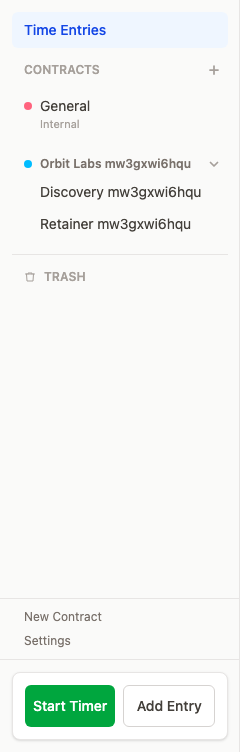
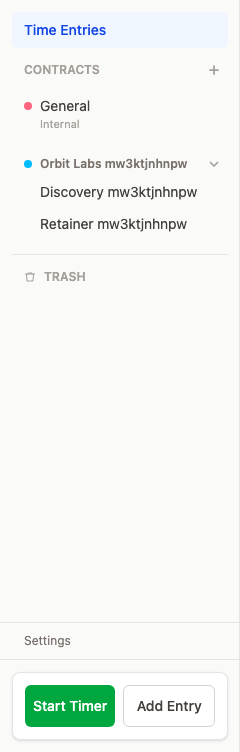
Remove footer New Contract link; compact 32px card buttons on touch

Changed region(s): [[0.525, 0.2141, 0.8458, 0.3059], [0.0875, 0.7952, 0.4375, 0.8258]]

diff --git a/src/lib/components/weekly/TimeEntryCard.svelte b/src/lib/components/weekly/TimeEntryCard.svelte
@@ -360,7 +360,7 @@
 	tabindex="-1"
 	role="group"
 	aria-label="{splitDescription.body || 'Time entry'}, {contractLabel}, {durationDisplay}"
-	class="group relative mb-2 flex rounded-lg pointer-coarse:min-h-[92px] border border-stone-200 border-l-[3px] bg-white p-3 transition-colors hover:bg-stone-50/50 focus-visible:ring-2 focus-visible:ring-blue-400 focus-visible:outline-none {clientBorderClass}"
+	class="group relative mb-2 flex rounded-lg border border-stone-200 border-l-[3px] bg-white p-3 transition-colors hover:bg-stone-50/50 focus-visible:ring-2 focus-visible:ring-blue-400 focus-visible:outline-none {clientBorderClass}"
 	data-testid="time-entry-card"
 	data-entry-id={entry.id}
 >
@@ -388,7 +388,7 @@
 		{:else}
 			<button
 				onclick={() => (isConfirmingDelete = true)}
-				class="flex h-6 w-6 items-center justify-center rounded text-stone-400 opacity-0 transition-opacity group-focus-within:opacity-100 group-hover:opacity-100 hover:bg-red-50 hover:text-red-600 focus-visible:opacity-100 pointer-coarse:h-11 pointer-coarse:w-11 pointer-coarse:opacity-100"
+				class="flex h-6 w-6 items-center justify-center rounded text-stone-400 opacity-0 transition-opacity group-focus-within:opacity-100 group-hover:opacity-100 hover:bg-red-50 hover:text-red-600 focus-visible:opacity-100 pointer-coarse:h-8 pointer-coarse:w-8 pointer-coarse:opacity-100"
 				title="Delete entry"
 				aria-label="Delete entry"
 			>&times;</button>

diff --git a/e2e-playwright/iphone-journeys.spec.ts b/e2e-playwright/iphone-journeys.spec.ts
@@ -74,9 +74,11 @@ test('sign in, then the week: add, edit and delete an entry @iphone', async ({ p
 	const editedCard = page.getByTestId('time-entry-card').filter({ hasText: 'Phone entry edited' });
 	await expect(editedCard).toBeVisible();
 
-	// Delete: the × is always shown on touch and is finger-sized, and so are Yes / No
+	// Delete: the × is always shown on touch at a compact 32px (owner: tight is fine); Yes / No are finger-sized
 	const deleteButton = editedCard.getByRole('button', { name: 'Delete entry' });
-	await expectTouchSized(deleteButton);
+	const deleteBox = await deleteButton.boundingBox();
+	expect(deleteBox!.width).toBeGreaterThanOrEqual(32);
+	expect(deleteBox!.height).toBeGreaterThanOrEqual(32);
 	await deleteButton.click();
 	const confirmYes = editedCard.getByRole('button', { name: 'Yes' });
 	await expectTouchSized(confirmYes);

diff --git a/src/lib/components/weekly/AttachNoteButton.svelte b/src/lib/components/weekly/AttachNoteButton.svelte
@@ -42,7 +42,7 @@
 	class="flex h-6 w-6 items-center justify-center rounded text-stone-400 transition-opacity
 		hover:bg-blue-50 hover:text-blue-600 focus-visible:opacity-100
 		aria-disabled:cursor-not-allowed aria-disabled:hover:bg-transparent aria-disabled:hover:text-stone-400
-		pointer-coarse:h-11 pointer-coarse:w-11 pointer-coarse:opacity-100
+		pointer-coarse:h-8 pointer-coarse:w-8 pointer-coarse:opacity-100
 		{isAttaching ? 'opacity-100' : 'opacity-0 group-hover:opacity-100 group-focus-within:opacity-100'}
 		{blockedReason ? 'text-stone-300' : ''}"
 >

diff --git a/src/lib/components/layout/ContractsSidebar.svelte b/src/lib/components/layout/ContractsSidebar.svelte
@@ -214,12 +214,6 @@
 
 	<!-- Action buttons just above the timer -->
 	<div class="flex-shrink-0 border-t border-stone-200 px-3 py-1.5">
-		<button
-			onclick={() => (showCreateModal = true)}
-			class="block w-full px-3 py-1 text-left text-xs text-stone-500 hover:text-stone-700 pointer-coarse:py-3.5"
-		>
-			New Contract
-		</button>
 		<a
 			href="/settings"
 			class="block w-full px-3 py-1 text-left text-xs text-stone-500 hover:text-stone-700 pointer-coarse:py-3.5"

diff --git a/docs/backlog.md b/docs/backlog.md
@@ -32,7 +32,7 @@ The live backlog, rewritten 2026-11-03 after sprints 019 to 028. Sprint history 
 - **046-CL** Search results as one interleaved list with type icons; one-line meta on phones.
 - **043-CL** Trash view `/notes/trash`, link text in previews and titles, deleted-attachment styling, `NoteEditorPanel` split, reactive toolbar disabled states, phone Undo/linked entries/landscape.
 - **044-CL** Playwright 2FA login test, version drift notice (`serverCommit` on `/api/me`), desktop sign-out clears the tray timer, distinct client colours, root navigation context, `undo --last-import` trashes imported notes, 0 svelte-check warnings, skill split into SKILL.md + reference.md, deterministic WebKit tests, screenshots only with `UPDATE_SPRINT_SCREENSHOTS=1`. CLI 1.3.0.
-- **049-UI** Attach note on a time entry (new note on the entry's contract, `[[ID]]` appended to the description, note opens focused; offline via the outbox), `+` New contract beside the Contracts heading, client chevrons right-aligned under it. Follow-ups: the footer "New Contract" link is now a duplicate (remove?); API e2e `note-changes-cli` "note new --date yesterday" expects a 3-digit note number and fails once the dev DB passes 999 notes a day.
+- **049-UI** Attach note on a time entry (new note on the entry's contract, `[[ID]]` appended to the description, note opens focused; offline via the outbox), `+` New contract beside the Contracts heading, client chevrons right-aligned under it. Footer "New Contract" link removed and card buttons tightened to 32 px on touch (owner, 2026-11-05). Follow-up: API e2e `note-changes-cli` "note new --date yesterday" expects a 3-digit note number and fails once the dev DB passes 999 notes a day.
 - **048-DT** Tauri iOS shell (`dev.thisolivier.chronolog`, loads production, portrait on iPhone), `scripts/ios/ship-ios.sh` TestFlight lane and `testflight-setup` skill from timeConvertor, `docs/IOS-RELEASE.md`, simulator UI-test driver in `scripts/ios/ui-check/`. Proven in the simulator up to the missing provisioning profile.
 - **047-QA** iPhone UI pass (SE, 15, 15 Pro Max, WebKit): 16 px inputs, `dvh` + safe areas, 44 pt touch targets, Move menu and wiki-link list on screen, stacked Settings rows, phone Find button. Deferred: touch path to reorder clients, crowded title bar while a timer runs, small contract arrows, raw `[[ID]]` when editing an entry, sideways-scrolling note toolbar has no visible hint (`docs/review/2026-11-04-iphone-ui.md`).
 - **045-CL** Offline outbox: per-user IndexedDB read cache, service worker for offline reload (not in Tauri), localStorage outbox with per-field conflict hold, `clientRequestId` idempotent creates (migration 0011), account-safe replay. Not queued offline: note move/pin/trash, attachments, week status, stopping a server timer.

diff --git a/src/lib/components/layout/README.md b/src/lib/components/layout/README.md
@@ -58,7 +58,7 @@ Offline banner, rendered by AppShell and by `SettingsShell`. It reads `src/lib/s
 
 ### ContractsSidebar.svelte
 
-Panel 1 sidebar content. Shows Time Entries, the contracts (a `+` right of the "Contracts" heading opens New Contract, `ContractCreateModal`; sprint 049-UI), and the Archived item, then New Contract, Settings and the timer widget pinned to the bottom. It loads the contracts (archived ones included) into the contract directory store, which splits them into the active clients and the Archived section; the sidebar only draws them. Note counts refresh on `notes-changed` and `note-moved` window events, and the list reloads whenever the sidebar mounts again (coming back from Settings).
+Panel 1 sidebar content. Shows Time Entries, the contracts (a `+` right of the "Contracts" heading opens New Contract, `ContractCreateModal`; sprint 049-UI), and the Archived item, then Settings and the timer widget pinned to the bottom. It loads the contracts (archived ones included) into the contract directory store, which splits them into the active clients and the Archived section; the sidebar only draws them. Note counts refresh on `notes-changed` and `note-moved` window events, and the list reloads whenever the sidebar mounts again (coming back from Settings).
 
 Hierarchy (sprint 033-CL):
 - A client with two or more active contracts is a heading (colour dot + name) with its contracts indented under it.
